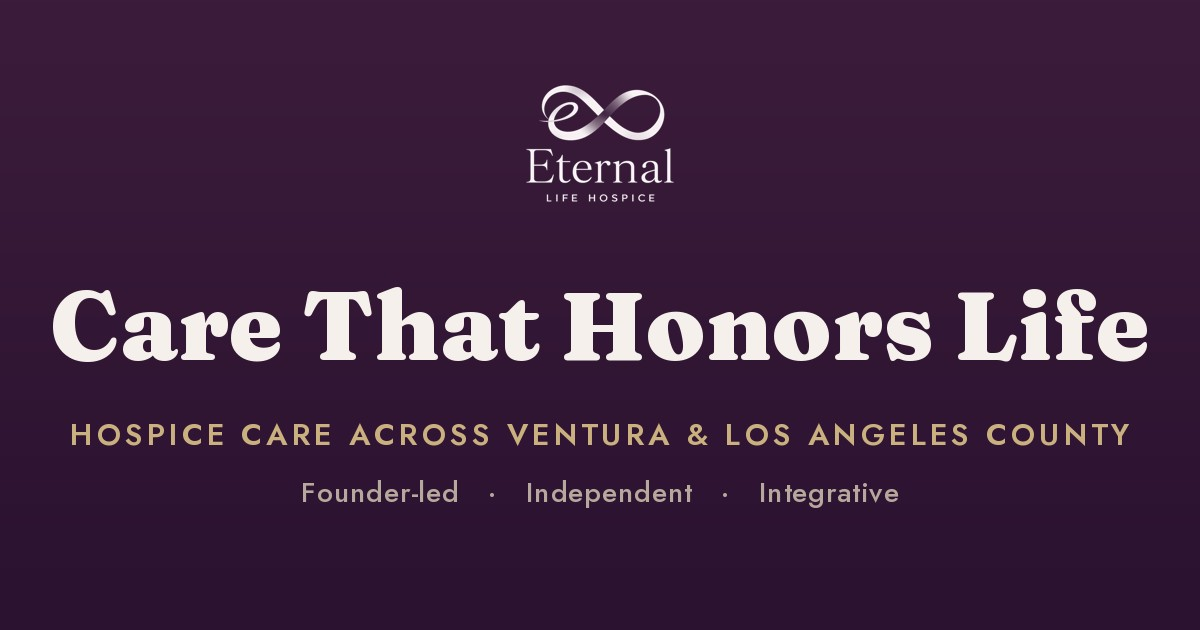
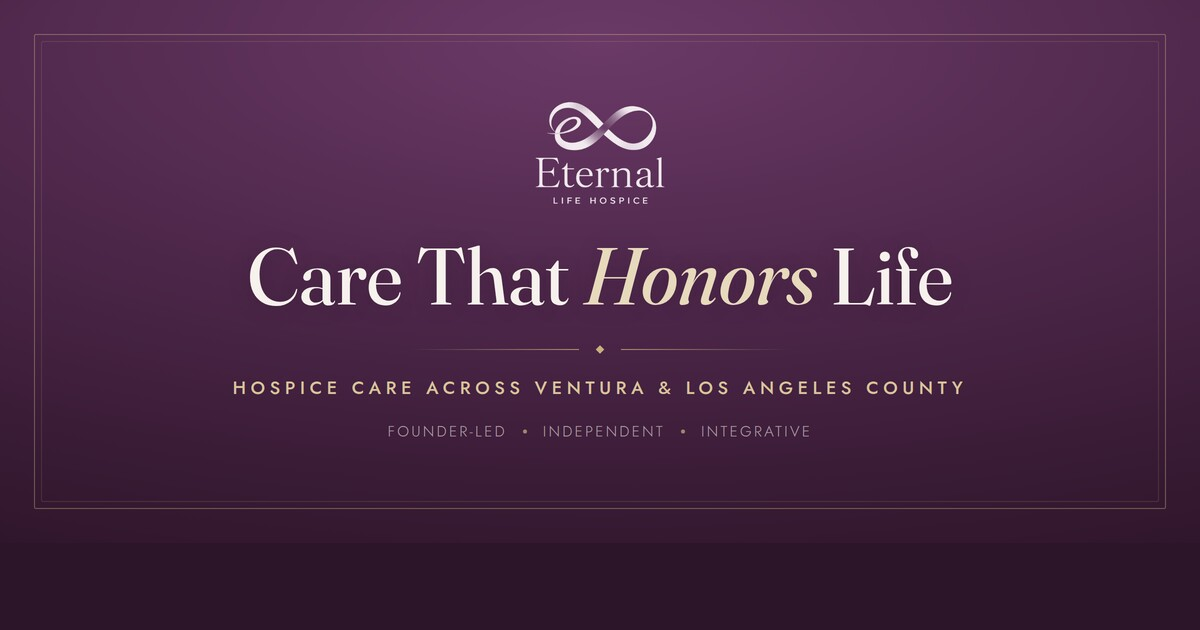
Update the website's share card with a more elegant design
Replace the existing OG share card image with a newly designed version, generated using headless Chromium, and update documentation detailing the creation process.

Replit-Commit-Author: Agent
Replit-Commit-Session-Id: 1b958849-79a5-4566-be53-e68529931cd0
Replit-Commit-Checkpoint-Type: full_checkpoint
Replit-Commit-Event-Id: f9954946-a37e-4bf3-abb5-2541eeb614c2
Replit-Commit-Screenshot-Url: https://storage.googleapis.com/screenshot-production-us-central1/e1b2f643-7869-4565-af0e-10c34575ee8d/1b958849-79a5-4566-be53-e68529931cd0/29biMYW
Replit-Helium-Checkpoint-Created: true

diff --git a/.agents/memory/og-image.md b/.agents/memory/og-image.md
@@ -1,0 +1,36 @@
+---
+name: OG / social share card
+description: How the eternallifehospice.com share-preview image is made and how to update it.
+---
+
+# OG / social share card
+
+The link-preview image lives at `assets/og-image.jpg` (1200×630). **Every page
+references the same file** (`https://eternallifehospice.com/assets/og-image.jpg`),
+except a few that point at their own hero (sound-bath, carebidet, city pages).
+So replacing that one file updates the share card site-wide — no HTML edits.
+
+**How it's generated:** build a temporary `og-card.html` at the repo root
+(website/elh-preview/) styled with the site's embedded Fraunces + Jost @font-face
+(the `inline-*.woff2` files), render it headless, then downscale:
+```
+chromium --headless=new --disable-gpu --no-sandbox --hide-scrollbars \
+  --force-device-scale-factor=2 --window-size=1200,630 --virtual-time-budget=4000 \
+  --screenshot=/tmp/og.png http://localhost:5000/og-card.html
+magick /tmp/og.png -resize 1200x630! -quality 90 -sampling-factor 4:2:0 -strip assets/og-image.jpg
+```
+Then **delete og-card.html** so no stray indexable page ships on this SEO-locked
+site. Chromium binary is at a nix path (just call `chromium`).
+
+**Gotcha:** headless `--window-size=1200,630` renders a viewport ~29px taller
+than requested, leaving a white band at the bottom. Fix: size the card with
+`100vw/100vh` and give `html,body` the dark plum background so it always fills,
+then force-resize to 1200×630. **Why:** fixed `630px` heights leave the gap.
+
+**Design language (current "elegant" card):** soft plum radial gradient, fine
+double gold hairline frame, cream Fraunces headline with the middle word in
+*italic* + gold tint, gold hairline+diamond divider, letter-spaced Jost tagline.
+
+**Note:** the "share.google" label users sometimes see under the preview is
+Google's own share-link wrapper, NOT controlled by our meta tags — sharing the
+direct eternallifehospice.com URL shows the real domain.

diff --git a/.agents/memory/MEMORY.md b/.agents/memory/MEMORY.md
@@ -3,3 +3,4 @@
 - [Sound Bath page](soundbath-page.md) — sound-bath.html: Web Audio engine + player CSS duplicated from index.html (update both); strict compliance framing (no efficacy claims, Medicare-not-covered, WebPage schema not Medical).
 - [Chat widget ops](chat-widget-ops.md) — Netlify Function chat.js: fast 4-5ms reply = missing key (scope=All+redeploy); Anthropic 404=model retired not credits; function self-heals via /v1/models.
 - [Form auto-reply](form-autoreply.md) — submission-created.js sends client auto-reply via Resend; always returns 200; gate by form allowlist (email-collecting forms only); key in Netlify not Replit.
+- [OG share card](og-image.md) — assets/og-image.jpg (1200×630) is shared site-wide; regen via temp og-card.html + headless chromium screenshot; 100vw/vh fill avoids white band; share.google is Google's wrapper.
